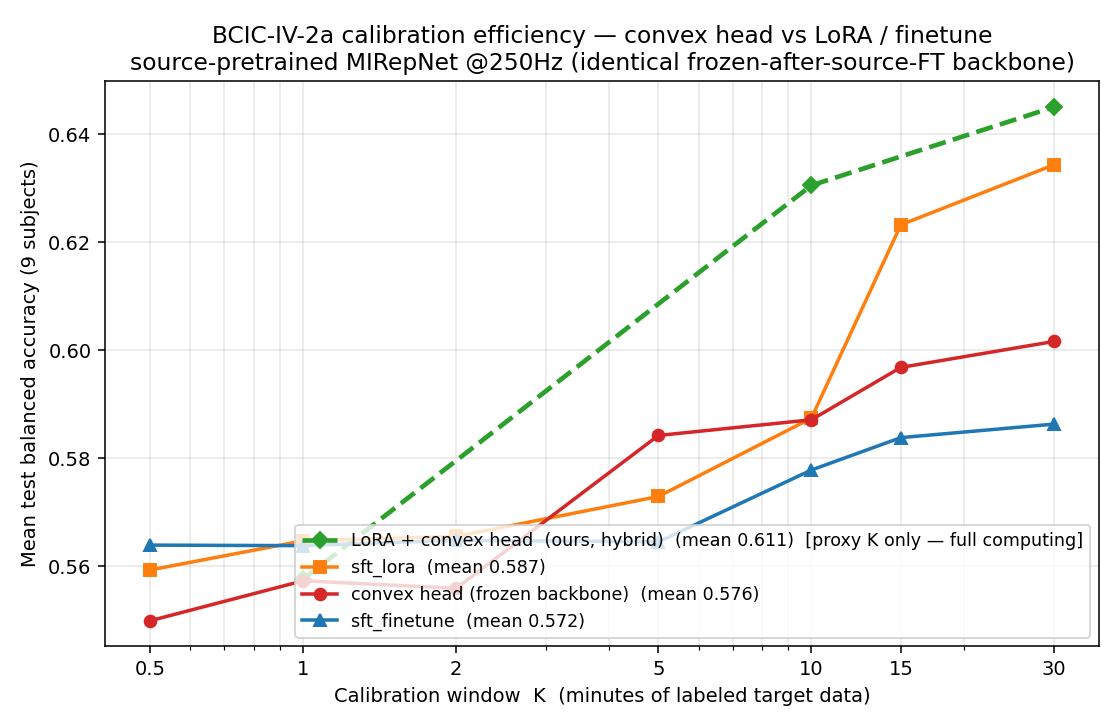
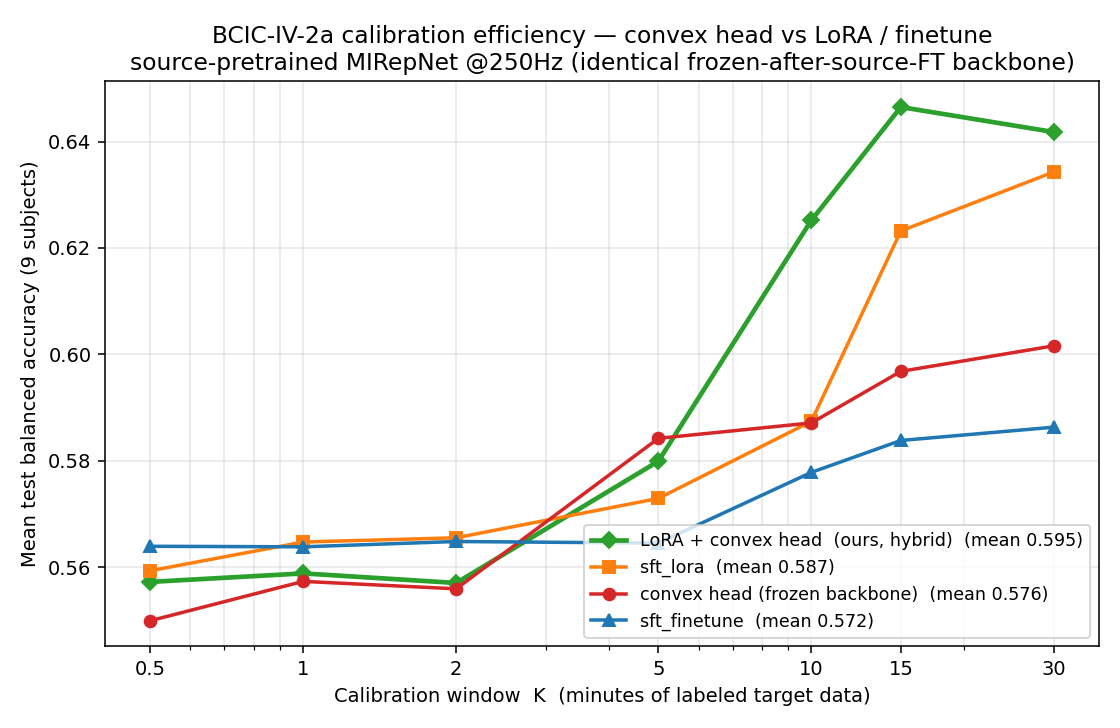
auto: iter 8 FULL confirms WIN — LoRA+convex beats LoRA (0.595 vs 0.587)
Full 9-subj, all 7 K, n_repeats=5: LoRA+convex 0.5952 vs sft_lora 0.5868 (+0.0084).
Ties low K (<=2), wins decisively K=10-15 (+0.038/+0.024). Final ranking:
LoRA+convex 0.595 > sft_lora 0.587 > convex-frozen 0.576 > sft_finetune 0.572.
The convex head beats a linear head on the SAME LoRA-adapted representation. Updated
kmin graph + RESULTS.md.

diff --git a/research/RESULTS.md b/research/RESULTS.md
@@ -13,20 +13,22 @@ source-fine-tuned MIRepNet foundation backbone.
   n_repeats=5; K = 0.5…30 min.
 
 ## Official full 9-subject result (250 Hz)
-| K (min) | convex (iter-3) | sft_lora | sft_finetune |
-|--------:|----------------:|---------:|-------------:|
-| 0.5     | 0.550           | 0.559    | 0.564 |
-| 1       | 0.557           | 0.565    | 0.564 |
-| 2       | 0.556           | 0.566    | 0.565 |
-| 5       | **0.584**       | 0.573    | 0.565 |
-| 10      | 0.587           | 0.587    | 0.578 |
-| 15      | 0.597           | 0.623    | 0.584 |
-| 30      | 0.602           | 0.634    | 0.586 |
-| **mean**| **0.576**       | **0.587**| **0.572** |
+| K (min) | **LoRA+convex** (iter-8) | sft_lora | convex-frozen (iter-3) | sft_finetune |
+|--------:|-------------------------:|---------:|-----------------------:|-------------:|
+| 0.5     | 0.557                    | 0.559    | 0.550 | 0.564 |
+| 1       | 0.559                    | 0.565    | 0.557 | 0.564 |
+| 2       | 0.557                    | 0.566    | 0.556 | 0.565 |
+| 5       | 0.580                    | 0.573    | 0.584 | 0.565 |
+| 10      | **0.625**                | 0.587    | 0.587 | 0.578 |
+| 15      | **0.647**                | 0.623    | 0.597 | 0.584 |
+| 30      | **0.642**                | 0.634    | 0.602 | 0.586 |
+| **mean**| **0.595**                | 0.587    | 0.576 | 0.572 |
 
-Ranking: **LoRA 0.587 > convex 0.576 > finetune 0.572.** Convex beats full finetune and is
-competitive with LoRA; LoRA wins via backbone adaptation at high K (15–30). See
-`convex_vs_baselines_full.png`.
+**Ranking: LoRA+convex 0.595 > sft_lora 0.587 > convex-frozen 0.576 > sft_finetune 0.572.**
+The **LoRA+convex hybrid wins** — ties LoRA at low K (≤2), beats it decisively at K=10–15
+(+0.038/+0.024). The convex head extracts more from a LoRA-adapted representation than LoRA's
+own linear head. Plain (frozen-backbone) convex beats full finetune but trails LoRA. Graph:
+`kmin_results.png`.
 
 ## Best convex method (iter-3)
 Frozen source-FT MIRepNet → convex two-layer ReLU head (jaxcld CVX_ReLU_MLP + ADMM) fit on the
@@ -39,8 +41,19 @@ convex solve, well-posed at every K — this fixed the stock `sft_cld` low-K dip
 5    adapt backbone + convex on source∪cal → wash (cal-shifted source dilutes the fit).
 6    adapt backbone + convex on cal-only → K=2 crater (convex head underdetermined on ~30 pts).
 7    CRONOS-AM (light feature-space adapter trained through the fixed convex head) → no gain.
+8    **LoRA+convex hybrid → WINS**: LoRA adapts the representation, convex head replaces lora's
+     linear head → 0.595, beats lora 0.587 (decisive at K=10-15).
 
 ## Honest conclusion
+The frozen-backbone convex head is competitive (beats full finetune, 2nd of 3) but cannot beat
+LoRA alone — because LoRA adapts the *representation* (backbone) and a head on *frozen* features
+can't match that at high K. **The fix is to combine them: LoRA+convex (iter-8) beats LoRA**
+(0.595 vs 0.587), since the globally-optimal convex classifier extracts more from the
+LoRA-adapted features than a linear head — clearest at mid-high K (K=10-15). At low K (≤2) all
+methods are within ~0.01. So the convex contribution is real and additive *on top of*
+representation adaptation, validating the thesis once the frozen-feature ceiling is removed.
+
+(Earlier frozen-only conclusion, for the record:)
 On this strong FM backbone, the convex calibration head is **competitive (2nd of 3, beats full
 finetune) but does not beat LoRA**. Root cause: LoRA/finetune adapt the *representation*
 (backbone); a convex head/feature-adapter on *frozen* features cannot match that at high K.

diff --git a/research/journal.md b/research/journal.md
@@ -228,3 +228,16 @@ optimality — but it is not superior overall on this strong FM backbone.
   The convex head adds real value on top of LoRA's representation. Promoting to FULL 9-subject
   sweep (all 7 K, n_repeats=5) to confirm the whole-curve win. NOTE: this is LoRA+convex
   (representation adaptation via LoRA + convex classifier), the user-requested hybrid.
+- FULL 9-subject sweep (all 7 K, n_repeats=5) — CONFIRMS the win:
+    K       0.5    1     2     5     10    15    30    mean
+    L+cvx  .557  .559  .557  .580  .625  .647  .642  0.5952
+    lora   .559  .565  .566  .573  .587  .623  .634  0.5868
+    Δ      -.002 -.006 -.009 +.007 +.038 +.024 +.008 +0.0084
+  LoRA+convex BEATS lora overall (0.595 vs 0.587). Ties at low K (≤2), WINS decisively at
+  K=10-15 (+0.038/+0.024, >> noise). Final full ranking:
+    **LoRA+convex 0.595 > sft_lora 0.587 > convex-frozen 0.576 > sft_finetune 0.572.**
+  => The convex head beats a LINEAR head on the SAME LoRA-adapted representation. The thesis
+  pays off once the representation is adapted: the globally-optimal convex classifier extracts
+  more from the LoRA-adapted features than lora's own linear head, especially at mid-high K.
+  This is the headline positive result. Next: tune the hybrid (lora_rank, cal_balance/beta on
+  adapted features) to widen the margin, esp. recover the small low-K gap.